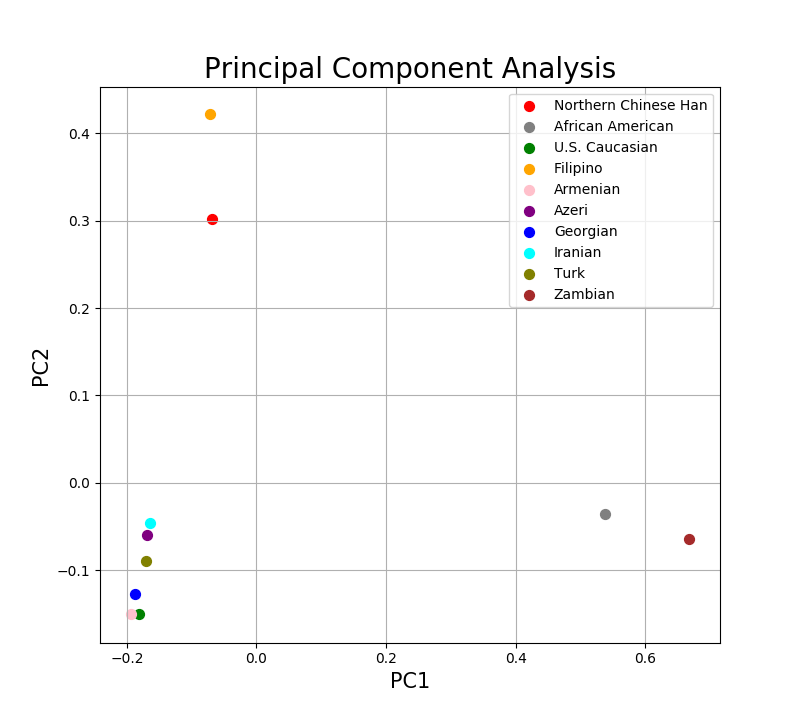
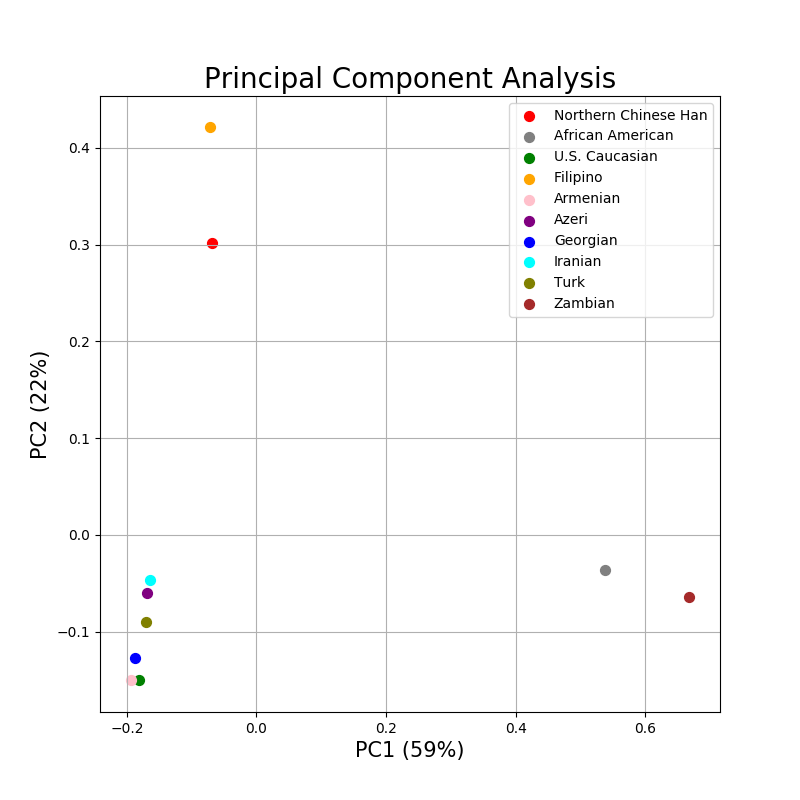
updated PCA plot

diff --git a/week9homework/pca_plot.py b/week9homework/pca_plot.py
@@ -6,6 +6,7 @@ import numpy as np
 import matplotlib.pyplot as plt
 from sklearn.decomposition import PCA
 from sklearn.preprocessing import StandardScaler
+#import seaborn as sns
 
 def make_dataframe() -> 'dataframe':
 	'''Creates and returns a  pandas dataframe with the data given'''
@@ -52,14 +53,23 @@ def plot_pca(sdf: 'dataframe') -> None:
 	finalDf = pd.concat([principalDf, sdf[['Haplogroup']]], axis = 1)
 
 	#Shows how much varience can be attributed to each of the principal components
-	#variance = pca.explained_variance_ratio_
-	#print(finalDf)
+	variance = pca.explained_variance_ratio_
 	#print(variance)
+	#print(finalDf)
+
+	#Attemt to flip graph
+	#sns.scatterplot(x='PC1',y='PC2',hue='Haplogroup',data=finalDf)
+
+	#Put variance in Axis labels
+	x_variance = variance[0] * 100
+	x_label = 'PC1 (' + str(x_variance)[:2] + '%)'
+	y_variance = variance[1] * 100
+	y_label = 'PC2 (' + str(y_variance)[:2] + '%)'
 
 	fig = plt.figure(figsize = (8, 8))
 	ax = fig.add_subplot(1, 1, 1)
-	ax.set_xlabel('PC1', fontsize = 15)
-	ax.set_ylabel('PC2', fontsize = 15)
+	ax.set_xlabel(x_label, fontsize = 15)
+	ax.set_ylabel(y_label, fontsize = 15)
 	ax.set_title('Principal Component Analysis', fontsize = 20)
 
 	targets = ['Northern Chinese Han', 'African American', 'U.S. Caucasian', 'Filipino', 'Armenian', 'Azeri', 'Georgian', 'Iranian', 'Turk', 'Zambian']
